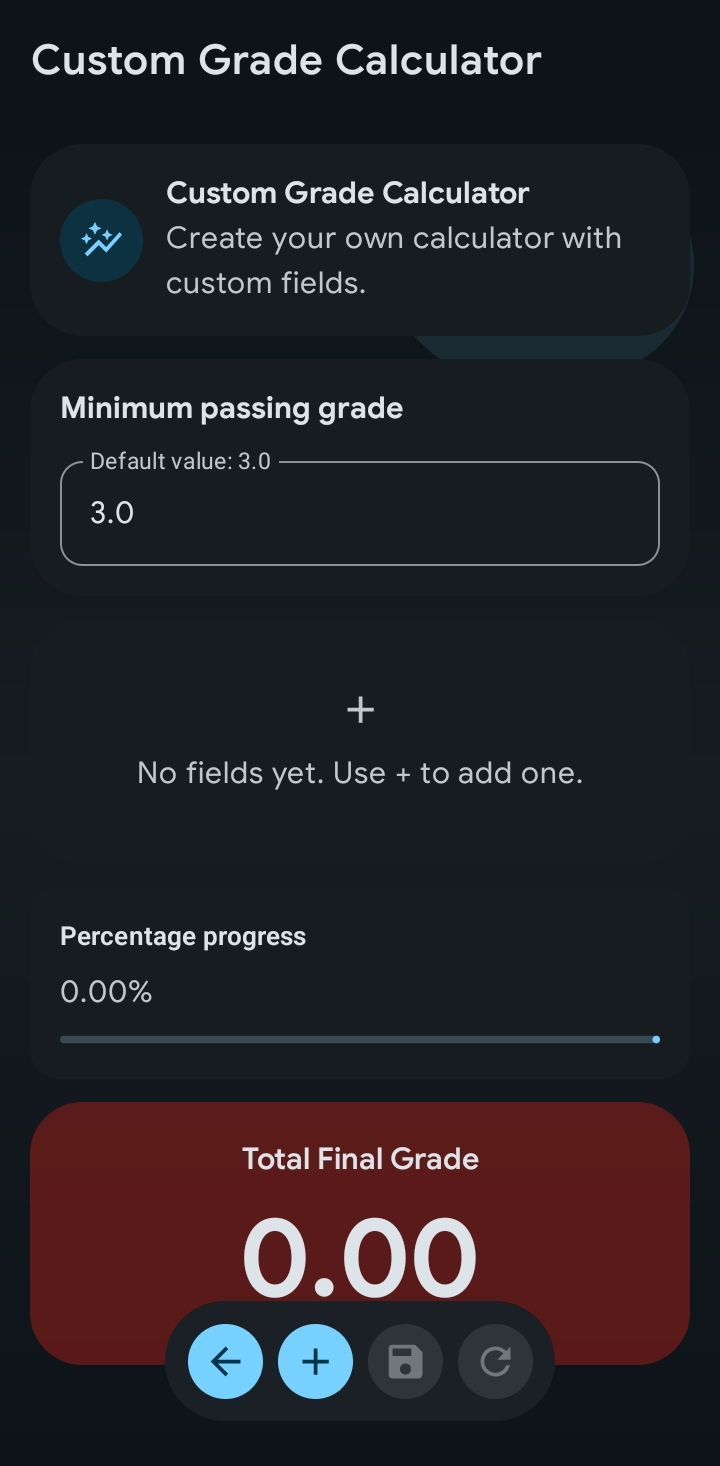
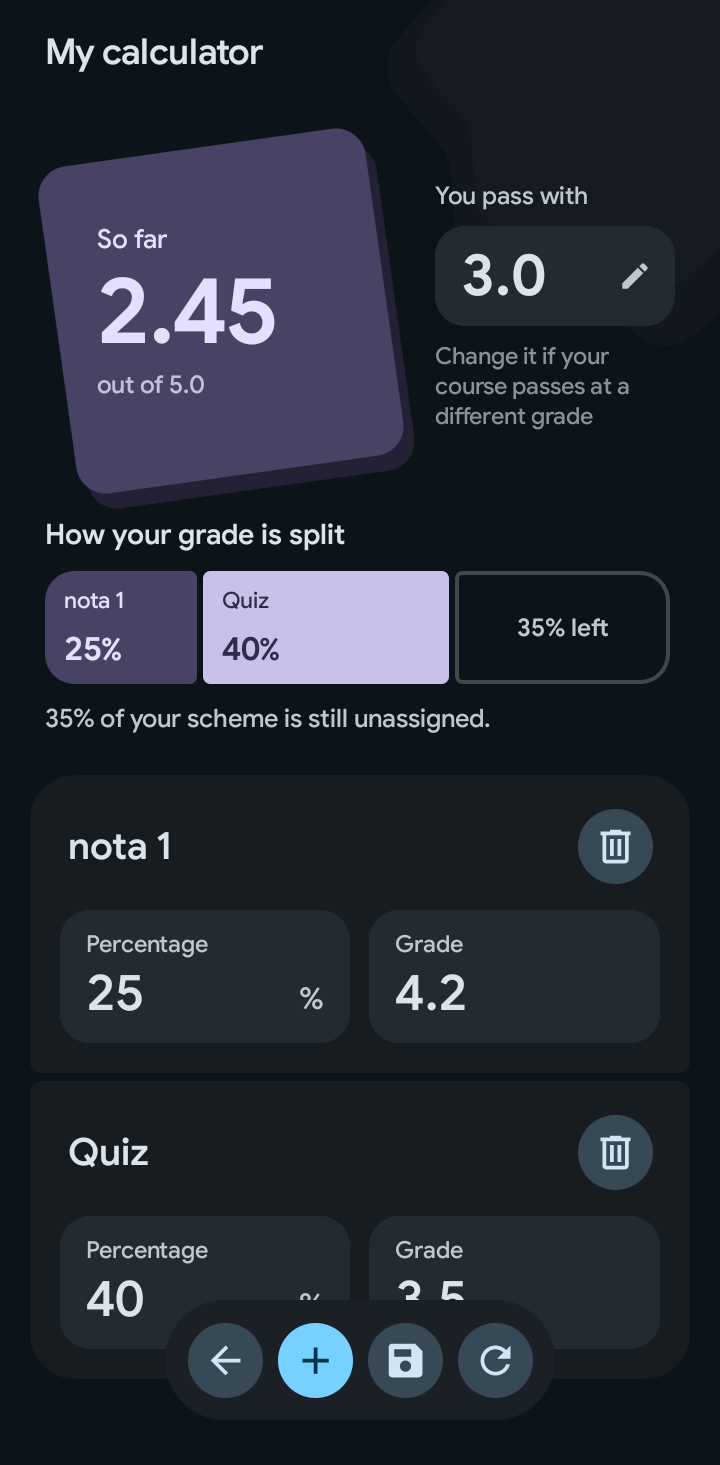
docs: update README screenshots for the 2.2.0 redesign
The three screenshots still showed the 2.1.0 screens. Replace them
with the redesigned Home and calculators and add a second row with
Help, Settings and Check for updates, which now have their own design
too. Captures are full-width 720 px without the status and navigation
bars, like the previous ones, in English and dark theme. The table
descriptions follow what each screen shows now, in both languages.

diff --git a/README.es.md b/README.es.md
@@ -49,7 +49,17 @@ CalNotas es una aplicación moderna de calculadora de notas para Android, migrad
 
 | Inicio | Calculadora por Defecto | Calculadora Personalizada |
 |:------:|:------------------------:|:--------------------------:|
-| Menú principal y acceso rápido | Calculadora con estructura predefinida | Calculadora flexible con campos personalizados |
+| Menú principal y acceso rápido | Tu nota, lo que te falta y la escala de 0 a 5 | Tus propios campos y cómo se reparten los porcentajes |
+
+<p align="center">
+  <img src="docs/screenshots/help-screen.png" width="250" alt="Pantalla de ayuda"/>
+  <img src="docs/screenshots/settings-screen.png" width="250" alt="Pantalla de configuración"/>
+  <img src="docs/screenshots/update-screen.png" width="250" alt="Pantalla de buscar actualizaciones"/>
+</p>
+
+| Ayuda | Configuración | Buscar Actualizaciones |
+|:-----:|:-------------:|:----------------------:|
+| Cómo funciona cada calculadora, con un ejemplo resuelto | Tema e idioma, aplicados al tocarlos | Verificador de actualizaciones integrado |
 
 ## Requisitos
 

diff --git a/README.md b/README.md
@@ -49,7 +49,17 @@ CalNotas is a modern grade calculator app for Android, migrated from Flutter to 
 
 | Home | Default Calculator | Custom Calculator |
 |:----:|:------------------:|:-----------------:|
-| Main menu and quick access | Calculator with predefined structure | Flexible calculator with custom fields |
+| Main menu and quick access | Your grade, what you still need and the 0–5 scale | Your own fields and how the percentages are split |
+
+<p align="center">
+  <img src="docs/screenshots/help-screen.png" width="250" alt="Help Screen"/>
+  <img src="docs/screenshots/settings-screen.png" width="250" alt="Settings Screen"/>
+  <img src="docs/screenshots/update-screen.png" width="250" alt="Check for Updates Screen"/>
+</p>
+
+| Help | Settings | Check for Updates |
+|:----:|:--------:|:-----------------:|
+| How each calculator works, with a worked example | Theme and language, applied on tap | Built-in update checker |
 
 ## Requirements
 
